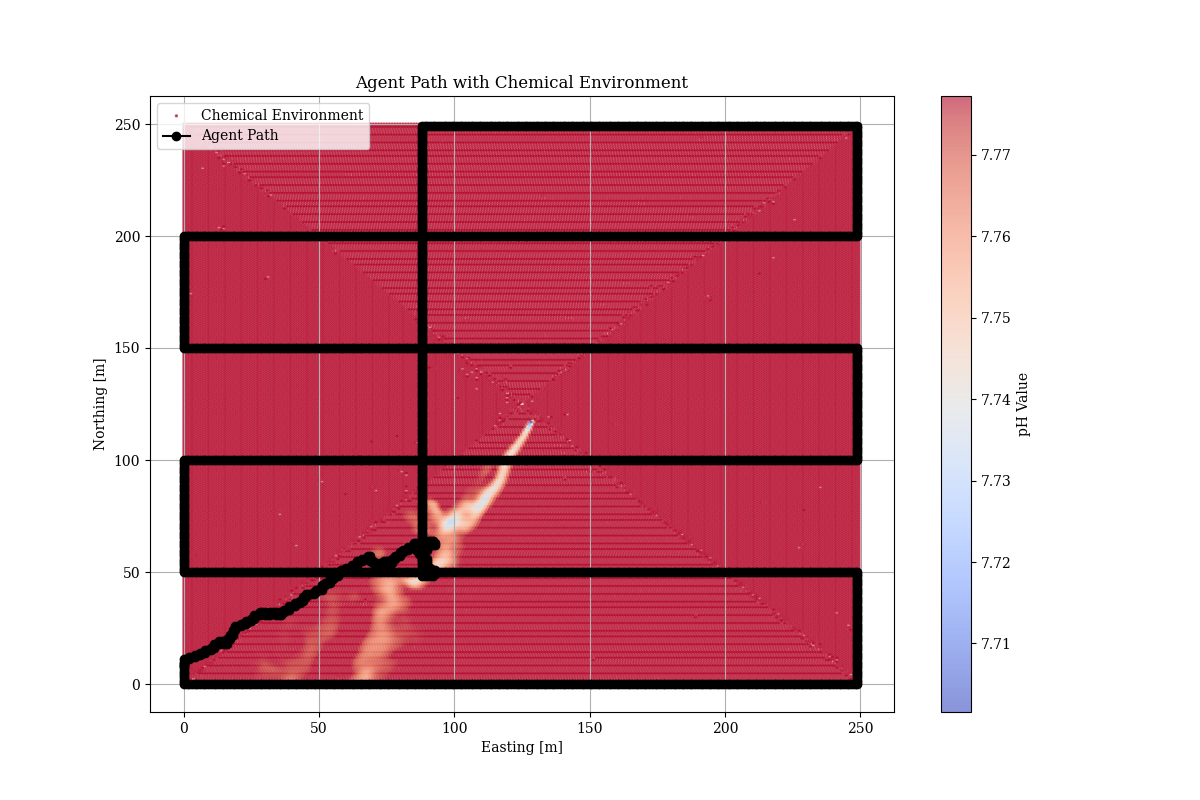
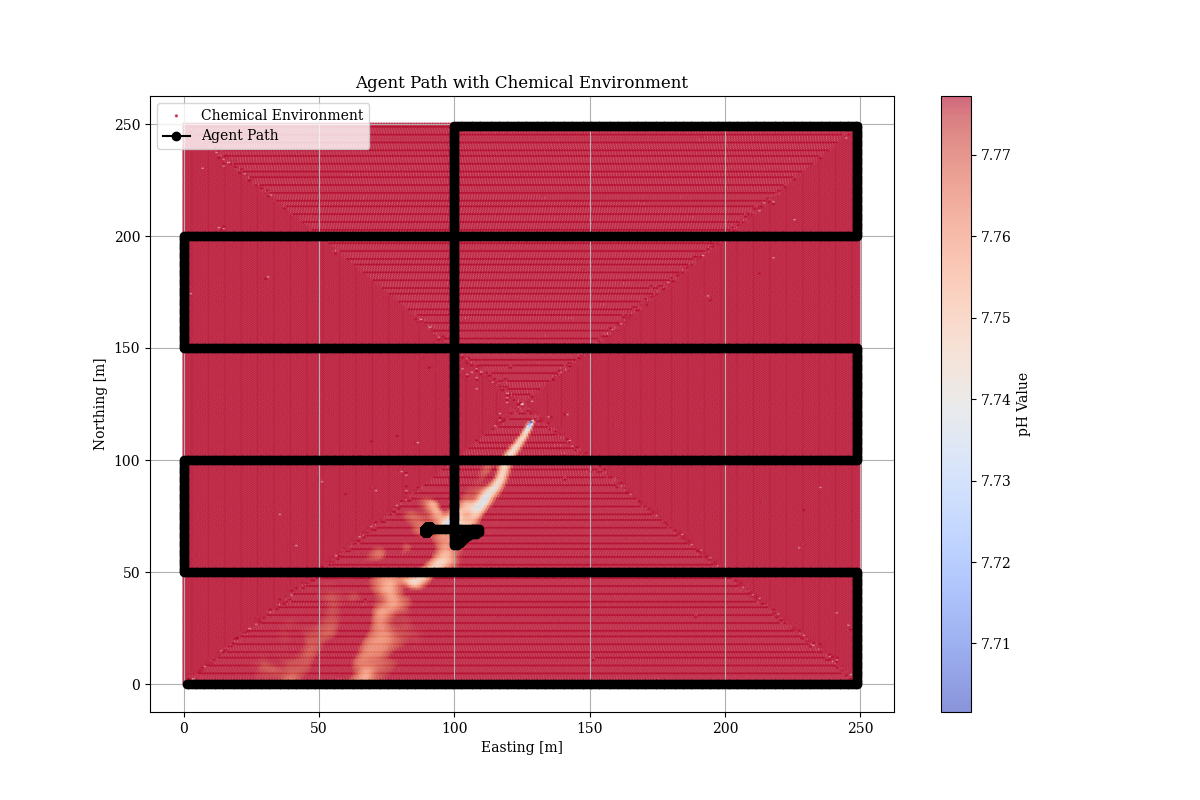
test function somewhat functional

Changed region(s): [[0.2775, 0.125, 0.4008, 0.75], [0.1233, 0.7188, 0.2775, 0.8438]]

diff --git a/src/Q_trainer.py b/src/Q_trainer.py
@@ -1,5 +1,5 @@
 from pathlib import Path
-from pprint import pprint
+from xarray import DataArray
 from QAgent_new import Q_Agent
 from Q_environment import Q_Environment
 import numpy as np
@@ -8,39 +8,47 @@ import matplotlib.pyplot as plt
 from policy_funcs import episilon_greedy, soft_max
 from reward_funcs import reward_gas_level, reward_trace_area
 from utils import chem_utils
+from tqdm import tqdm
 
 
 class Q_trainer:
-    def __init__(self, env: Q_Environment, q_table_shape=(3, 3, 3, 3)):
+    def __init__(self, env: Q_Environment, q_table_shape=(3, 3, 3, 3)) -> None:
         self._env: Q_Environment = env
         self._q_table = np.zeros(q_table_shape, dtype=np.int32)
 
-    def train(self, episodes=1, max_steps_per_episode=500, lawnmover_size=70, reward_func = reward_gas_level, policy = episilon_greedy, store_q_table_by_episode = False):
-        for episode in range(episodes):
-            agent = Q_Agent(self._env, reward_func=reward_func, policy=policy)
-            agent.q_table = self._q_table
-            agent.run(lawnmower_size=lawnmover_size, max_steps=max_steps_per_episode)
-            self._q_table = agent.q_table
-            if store_q_table_by_episode:
-                filename = Path("./results") / "q_tables" / f"{episode}_{reward_func}_{policy}_lawn_size_{lawnmover_size}.pkl"
-                self.save_q_table(filename=filename)
-            else:
-                print(f"Episode {episode + 1}/{episodes} completed.")
-            # if episode % 100 == 0:
-            #     print(f"Actions performed in episode {episode}: {agent._actions_performed}")
-            
-        self._save_position_history(agent)
-        if not store_q_table_by_episode:
-            filename = Path("./results") / "q_tables" / f"{episode}_{reward_func}_{policy}_lawn_size_{lawnmover_size}.pkl"
-            self.save_q_table(filename=filename)
+    def train(self, episodes=50, max_steps_per_episode=500, lawnmover_size=70, reward_func = reward_gas_level, policy = episilon_greedy, store_q_table_by_episode = False) -> None:
+        policy_name:str = policy.__name__
+        reward_name:str = reward_func.__name__
+        with tqdm(total=episodes, ncols=100, desc=f'Training agent {reward_name} {policy_name}', bar_format='{l_bar}{bar} [elapsed: {elapsed} remaining: {remaining}]'
+, colour='green', position=0) as pbar:
+            for episode in range(episodes+1):
+                agent = Q_Agent(self._env, reward_func=reward_func, policy=policy)
+                agent.q_table = self._q_table
+                agent.run(lawnmower_size=lawnmover_size, max_steps=max_steps_per_episode)
+                self._q_table = agent.q_table
+                if store_q_table_by_episode:
+                    filename = Path("./results") / "q_tables" / "q_tables_by_episodes" / policy_name / f"episode_{episode}_{reward_name}_{policy_name}_lawn_size_{lawnmover_size}.pkl"
+                    self.save_q_table(filename=filename)
+                else:
+                    print(f"Episode {episode + 1}/{episodes} completed.")
+                # if episode % 100 == 0:
+                #     print(f"Actions performed in episode {episode}: {agent._actions_performed}")
+                pbar.update()
 
-    def _save_position_history(self, agent: Q_Agent):
+            self._save_position_history(agent)
+            if not store_q_table_by_episode:
+                filename = Path("./results") / "q_tables" / policy_name / f"{episode}_{reward_name}_lawn_size_{lawnmover_size}.pkl"
+                self.save_q_table(filename=filename)
+
+    def _save_position_history(self, agent: Q_Agent) -> None:
         self.position_history = agent._actions_performed
     
-    def save_q_table(self, filename = r"./results/q_tables/q_table.pkl"):
+    def save_q_table(self, filename:Path = Path(r"./results/q_tables/q_table.pkl")) -> None:
+        # Eunsure that the path exists
+        filename.parent.mkdir(exist_ok=True, parents=True)
         with open(filename, "wb") as f:
             pickle.dump(self._q_table, f)
-        print(f"Q-table saved to {filename}")
+        print(f"\nQ-table saved to {filename}")
 
     def plot_behavior(self, chemical_file_path, time_target, z_target, data_parameter='pH', zoom=False, figure_name=None):
         plt.rcParams.update({
@@ -53,7 +61,7 @@ class Q_trainer:
         chemical_dataset = chem_utils.load_chemical_dataset(chemical_file_path)
 
         # Extract data to plot the environment
-        val_dataset = chemical_dataset[data_parameter].isel(time=time_target, siglay=z_target)
+        val_dataset: DataArray = chemical_dataset[data_parameter].isel(time=time_target, siglay=z_target)
         val = val_dataset.values[:72710]
         x = val_dataset['x'].values[:72710]
         y = val_dataset['y'].values[:72710]
@@ -102,23 +110,23 @@ class Q_trainer:
 
 
 def run_experiments() -> None:
-    episodes =   1
+    episodes =   50
     max_steps_per_episode = 5000
-    for size in (20, 50, 80):
-        for depth in range(66, 69):
+    for size in (50,):
+        for depth in range(66, 67):
             env = Q_Environment(Path(r"./sim/SMART-AUVs_OF-June-1c-0002.nc"), depth=depth, x_bounds=(0, 250), y_bounds=(0, 250))
-            trainer = Q_trainer(env )
-            trainer.train(episodes=episodes, max_steps_per_episode=max_steps_per_episode, lawnmover_size=size, reward_func = reward_trace_area, policy=soft_max)
-            for zoom in [False]:
-                figure_name = rf"./results/plots/softmax_reward_trace_area/training_lawnmover_size_{size}_steps_per_episode{max_steps_per_episode}_reward_trace_area_depth_{depth}.png"
-                trainer.plot_behavior(
-                    chemical_file_path=r"./sim/SMART-AUVs_OF-June-1c-0002.nc",
-                    time_target=0,
-                    z_target=depth,
-                    data_parameter='pH',
-                    zoom=zoom,
-                    figure_name=figure_name
-                )
+            trainer = Q_trainer(env)
+            trainer.train(episodes=episodes, max_steps_per_episode=max_steps_per_episode, lawnmover_size=size, reward_func = reward_trace_area, policy=soft_max, store_q_table_by_episode=True)
+            # for zoom in [False]:
+            #     figure_name = rf"./results/plots/softmax_reward_trace_area/training_lawnmover_size_{size}_steps_per_episode{max_steps_per_episode}_reward_trace_area_depth_{depth}.png"
+            #     trainer.plot_behavior(
+            #         chemical_file_path=r"./sim/SMART-AUVs_OF-June-1c-0002.nc",
+            #         time_target=0,
+            #         z_target=depth,
+            #         data_parameter='pH',
+            #         zoom=zoom,
+            #         figure_name=figure_name
+            #     )
 
 if __name__ == "__main__":
     run_experiments()

diff --git a/src/Q_simulator.py b/src/Q_simulator.py
@@ -1,5 +1,7 @@
 from pathlib import Path
 import pickle
+
+import numpy as np
 import reward_funcs
 import policy_funcs
 from tqdm import tqdm
@@ -10,7 +12,7 @@ from Q_environment import Q_Environment
 
 
 class Q_Simulator:
-    def __init__(self, env: Q_Environment, agent: Q_Agent | None) -> None:
+    def __init__(self, env: Q_Environment, agent: Q_Agent | None = None) -> None:
         self._agent: Q_Agent     = agent
         self._env: Q_Environment = env
         self._gas_coords: set = self._find_gas_coords(env.datapath)
@@ -40,63 +42,106 @@ class Q_Simulator:
         
         red_format = '{l_bar}{bar} \033[91m [elapsed: {elapsed} remaining: {remaining}]'
 
-        with tqdm(total=total_coords, ncols=100, desc='Processing Coordinates', bar_format=red_format, colour='green') as pbar:
+        with tqdm(total=total_coords, ncols=100, desc='Processing Coordinates', bar_format=red_format, colour='green', position=1) as pbar:
             for idx, coords in enumerate(coords_list):
                 gas_val = self._env.get_pH_at_position(coords, 0)
                 if self._env.classify_pH(gas_val) != PH_Reading.HIGH:
                     gas_coords.add(coords)
                 pbar.update(1)
 
+        # Create the path to the plume maps if they dont exists.
+        plume_map_path.parent.mkdir(exist_ok=True, parents=True)
         with open(plume_map_path, "wb") as plume_map:
             pickle.dump(gas_coords, plume_map)
         return gas_coords
     
-    def test_agent(self, max_steps=2000) -> None:
+
+
+
+    def test_agent(self, max_steps=2000, reward_func = None, policy = None, q_table = None, start_position = None) -> float:
+        """
+        Test the frequency of witch the agent visits gas nodes
+        """
         # We could create the agent here as well I suppose
+
+        if reward_func is None:
+            reward_func = reward_funcs.reward_trace_area
+        if policy is None:
+            policy = policy_funcs.episilon_greedy
+        if start_position is None:
+            start_position = (0, 0, self._env.depth)
+        if q_table is None:
+            q_table = np.zeros((3, 3, 3, 3))
+
+        self._agent = Q_Agent(
+            self._env,  
+            reward_func=reward_func, 
+            policy=policy, 
+            start_position=start_position
+        )
+        
+        # Set the trained Q-table if provided
+        self._agent.q_table = q_table
         self._agent.run(max_steps = max_steps)
-        print(self._agent.gas_coords_visited(self._gas_coords))
+        return self._agent.gas_coords_visited(self._gas_coords)
 
     @property
     def agent(self) -> Q_Agent:
         return self._agent
 
-    @agent.setter
-    def agent(self, q_table, alpha=0.1, gamma=0.9, epsilon=0.1, temp=1, 
-              reward_func=None, policy=None) -> None:
-        if reward_func is None:
-            reward_func = reward_funcs.reward_trace_area
-        if policy is None:
-            policy = policy_funcs.episilon_greedy
 
-        self._agent = Q_Agent(
-            self._env, 
-            alpha=alpha, 
-            gamma=gamma, 
-            epsilon=epsilon, 
-            temperature=temp, 
-            reward_func=reward_func, 
-            policy=policy, 
-            start_position=(0, 0, self._env.depth)
-        )
-        
-        # Set the trained Q-table if provided
-        if q_table:
-            self._agent.q_table = q_table
+def load_q_table(q_table_pkl_file:Path) -> np.ndarray:
+    """
+    Loads a q_table from a .pkl file 
+    """
+    with open(q_table_pkl_file, "rb") as q_paht:
+        return pickle.load(q_paht)
 
+def load_q_tables_sorted_by_episode(reward_func, policy_func, lawn_size) -> map:
+    """
+    Fetches the stored_q_tables
+    """
+    def extract_episode_number(path:Path) -> int:
+        return int(path.stem.split("_")[1])
+
+    reward_func_name: str = reward_func.__name__
+    policy_func_name: str = policy_func.__name__
+    reward_func_name_length: int = len(reward_func_name.split("_"))
+    directory = Path(r"./results/q_tables/q_tables_by_episodes") / policy_func_name
+    if not directory.exists():
+        raise FileExistsError("q_tables are not generated")
+    
+    q_files = []
+    # Find all correct q_tables
+    for file in filter(Path.is_file, directory.iterdir()):
+        split_file: list[str] = file.stem.split("_")
+        # Extract the reward function name to get the correct q-tables
+        reward_name = "_".join(split_file[2:2+reward_func_name_length])
+        if int(split_file[-1]) == lawn_size and reward_name == reward_func_name:
+            q_files.append(file)
+
+    q_files.sort(key=extract_episode_number)
+    return map(load_q_table, q_files)
 
 def fetch_sim_files(directory = Path(r"./sim")) -> filter:
     return filter(Path.is_file, directory.iterdir())
 
-
-if __name__ == "__main__":
+def read_and_store_sim_files() -> None:
     sim_files = list(fetch_sim_files())
-    with tqdm(total=len(sim_files) * 6, ncols=100, desc="Reading files", bar_format='\033[0m{l_bar}{bar} \033[91m [elapsed: {elapsed} remaining: {remaining}]', colour='red') as pbar:
+    with tqdm(total=len(sim_files) * 6, ncols=100, desc="Reading files", bar_format='\033[0m{l_bar}{bar} \033[91m [elapsed: {elapsed} remaining: {remaining}]', colour='red', position=0) as pbar:
         for file_path in sim_files:
             for depth in range(64, 70):
-                env   = Q_Environment(file_path, depth=depth)
+                env = Q_Environment(file_path, depth=depth)
                 sim = Q_Simulator(env, Q_Agent(env))
                 pbar.update(1)
 
 
 
+if __name__ == "__main__":
+    q_tables_by_episde: map = load_q_tables_sorted_by_episode(policy_func=policy_funcs.soft_max, reward_func=reward_funcs.reward_trace_area, lawn_size=50)
+
+    env = Q_Environment(list(fetch_sim_files())[0], depth = 65)
+    sim = Q_Simulator(env)
+    for q_table in q_tables_by_episde:
+        print(sim.test_agent(reward_func=reward_funcs.reward_trace_area, policy=policy_funcs.soft_max, q_table=q_table))
 

diff --git a/src/QAgent_new.py b/src/QAgent_new.py
@@ -18,14 +18,15 @@ class Q_Agent:
                  policy = episilon_greedy,
                  start_position: tuple[int, int, int] | None = None) -> None:
         
-        self._alpha: float   = alpha
-
-        self._epsilon: float = epsilon
+        self._alpha: float       = alpha
+        self._gamma: float       = gamma
+        self._epsilon: float     = epsilon
         self._temperature: float = temperature
         
-        # I prefere this setup with the callable as an argument
+        # I prefere this setup with the callables as arguments
         self._reward_function: Callable[..., int] = reward_func
         self._policy = policy
+       
         # I dont like these.
         self._time_steps_in_high: int   = 0
         self._time_steps_in_medium: int = 0
@@ -44,8 +45,10 @@ class Q_Agent:
         reward = 0
         for step in range(max_steps):
             current_state = self._env.get_state_from_position(self._position, self._heading)
-            # Convert state to tuple of integers
+            
+            # ? This is a bit ugly, but the following functions expect state as a tuple of integers. If I had time I would refactor this.
             current_state = tuple(map(lambda x: x.value, current_state))
+
             action = self.choose_action(current_state)
             next_state = self.execute_action(action)
             reward += self._reward_function(self, next_state)
@@ -119,18 +122,18 @@ class Q_Agent:
             self._move_forward()
         
     def perform_cartesian_lawnmower(self, turn_length:int = 70, start_direction: Direction = Direction.East) -> None:
-        def move_east():
+        def move_east() -> None:
             while self._env.inbounds(self._next_position()):
                 self._move_forward()
             self._heading = Direction.South
         
-        def move_west():
+        def move_west() -> None:
             while self._env.inbounds(self._next_position()):
                 self._move_forward()
 
             self._heading = Direction.South
         
-        def move_south(turn_dir:Direction):
+        def move_south(turn_dir:Direction) -> None:
             count = 0
             while self._env.inbounds(self._next_position()) and count < turn_length:
                 self._move_forward()
@@ -152,7 +155,7 @@ class Q_Agent:
                     move_west()
                     previous_heading = Direction.West
 
-    def visited(self):
+    def visited(self) -> bool:
         return self._position in self._visited
 
     @property
@@ -179,7 +182,7 @@ class Q_Agent:
 
         # The current location of the AUV is never in the set, so we add it here.
         self._visited.add(self._position)
-        num_visited_gas_coords = len(self._visited & gas_coords)
+        num_visited_gas_coords = len(self._visited & gas_coords) 
 
         return num_visited_gas_coords / len(gas_coords)
 
